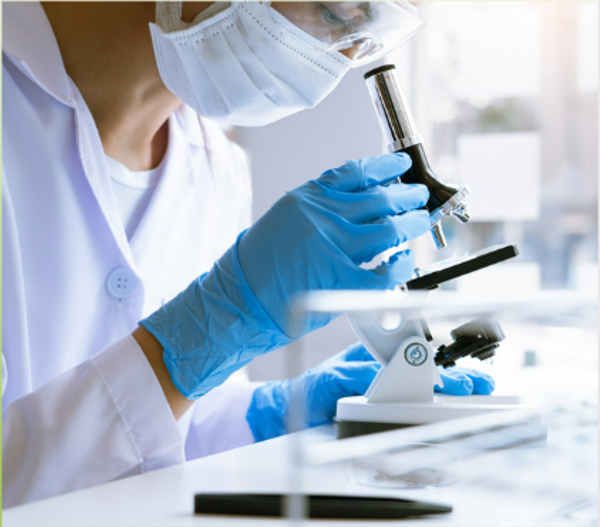
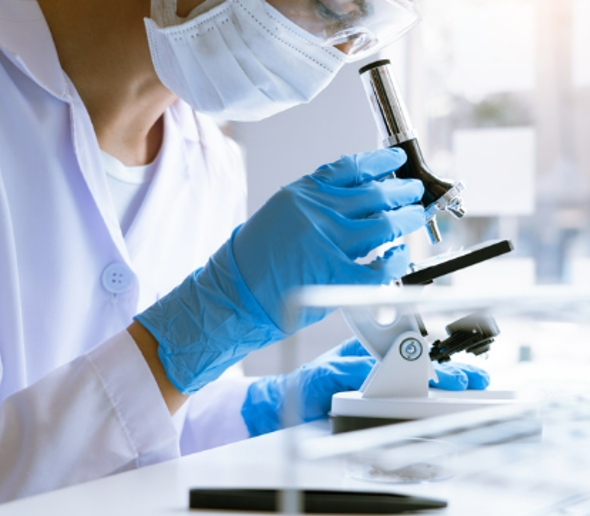
...

diff --git a/home.php b/home.php
@@ -69,7 +69,7 @@
                 </div>
                 <!-- Right Image -->
                 <div class="col-md-6 hero-image text-end">
-                    <img src="assets/img/cover.png" alt="Medical Laboratory">
+                    <img src="assets/img/cover.png" style="border: 1px solid #dfeac0; border-radius: 20px;" alt="Medical Laboratory">
                 </div>
             </div>
         </div>
@@ -103,24 +103,95 @@
     <hr>
 
     <section class="mt-5 mb-3" id="service">
-        <div class="container">
-            <div class="row">
-                <!-- Section Title -->
-                <div class="col-lg-12 mb-3">
-                    <h2 class="fw-bold text-uppercase text-center">Services</h2>
-                </div>
-                <!-- Service Unavailable Message -->
-                <div class="col-lg-12 text-center">
-                    <div class="alert alert-warning p-4" role="alert">
-                        <h4 class="fw-semibold mb-3">Services Currently Unavailable</h4>
-                        <p style="font-size: 16px;">
-                            We’re working hard to bring you our services soon. Please check back later or contact us for more information. Thank you for your understanding!
-                        </p>
+    <div class="container">
+        <div class="row">
+            <!-- Section Title -->
+            <div class="col-lg-12 mb-3">
+                <h2 class="fw-bold text-uppercase text-center">Services</h2>
+                <p class="text-center text-muted" style="font-size: 16px;">Explore our comprehensive range of diagnostic services designed to meet your healthcare needs.</p>
+            </div>
+            
+            <!-- Service List -->
+            <div class="col-lg-12">
+                <div class="row">
+                    <!-- Service Card -->
+                    <div class="col-md-4 mb-3">
+                        <div class="card h-100 shadow-sm">
+                            <div class="card-body">
+                                <h5 class="card-title">Chem6</h5>
+                                <p class="card-text">Price: 800</p>
+                            </div>
+                        </div>
+                    </div>
+                    <div class="col-md-4 mb-3">
+                        <div class="card h-100 shadow-sm">
+                            <div class="card-body">
+                                <h5 class="card-title">Chem7</h5>
+                                <p class="card-text">Price: 1100</p>
+                            </div>
+                        </div>
+                    </div>
+                    <div class="col-md-4 mb-3">
+                        <div class="card h-100 shadow-sm">
+                            <div class="card-body">
+                                <h5 class="card-title">Chem8</h5>
+                                <p class="card-text">Price: 1200</p>
+                            </div>
+                        </div>
+                    </div>
+                    <div class="col-md-4 mb-3">
+                        <div class="card h-100 shadow-sm">
+                            <div class="card-body">
+                                <h5 class="card-title">Chem9</h5>
+                                <p class="card-text">Price: 1350</p>
+                            </div>
+                        </div>
+                    </div>
+                    <div class="col-md-4 mb-3">
+                        <div class="card h-100 shadow-sm">
+                            <div class="card-body">
+                                <h5 class="card-title">Chem10</h5>
+                                <p class="card-text">Price: 1500</p>
+                            </div>
+                        </div>
+                    </div>
+                    <div class="col-md-4 mb-3">
+                        <div class="card h-100 shadow-sm">
+                            <div class="card-body">
+                                <h5 class="card-title">Chem13</h5>
+                                <p class="card-text">Price: 2400</p>
+                            </div>
+                        </div>
+                    </div>
+                    <div class="col-md-4 mb-3">
+                        <div class="card h-100 shadow-sm">
+                            <div class="card-body">
+                                <h5 class="card-title">Urinalysis</h5>
+                                <p class="card-text">Price: 100</p>
+                            </div>
+                        </div>
+                    </div>
+                    <div class="col-md-4 mb-3">
+                        <div class="card h-100 shadow-sm">
+                            <div class="card-body">
+                                <h5 class="card-title">Complete Blood Count</h5>
+                                <p class="card-text">Price: 350</p>
+                            </div>
+                        </div>
+                    </div>
+                    <div class="col-md-4 mb-3">
+                        <div class="card h-100 shadow-sm">
+                            <div class="card-body">
+                                <h5 class="card-title">Fecalysis</h5>
+                                <p class="card-text">Price: 80</p>
+                            </div>
+                        </div>
                     </div>
                 </div>
             </div>
         </div>
-    </section>
+    </div>
+</section>
 
     <hr>
 
@@ -130,6 +201,7 @@
                 <!-- Contacts Title -->
                 <div class="col-lg-12 mb-3">
                     <h2 class="fw-bold text-uppercase text-center">Contacts</h2>
+                    <p class="text-center text-muted" style="font-size: 16px;">Have questions or need assistance? Reach out to us through the provided contact details, and we’ll be happy to help you!</p>
                 </div>
             </div>
             
